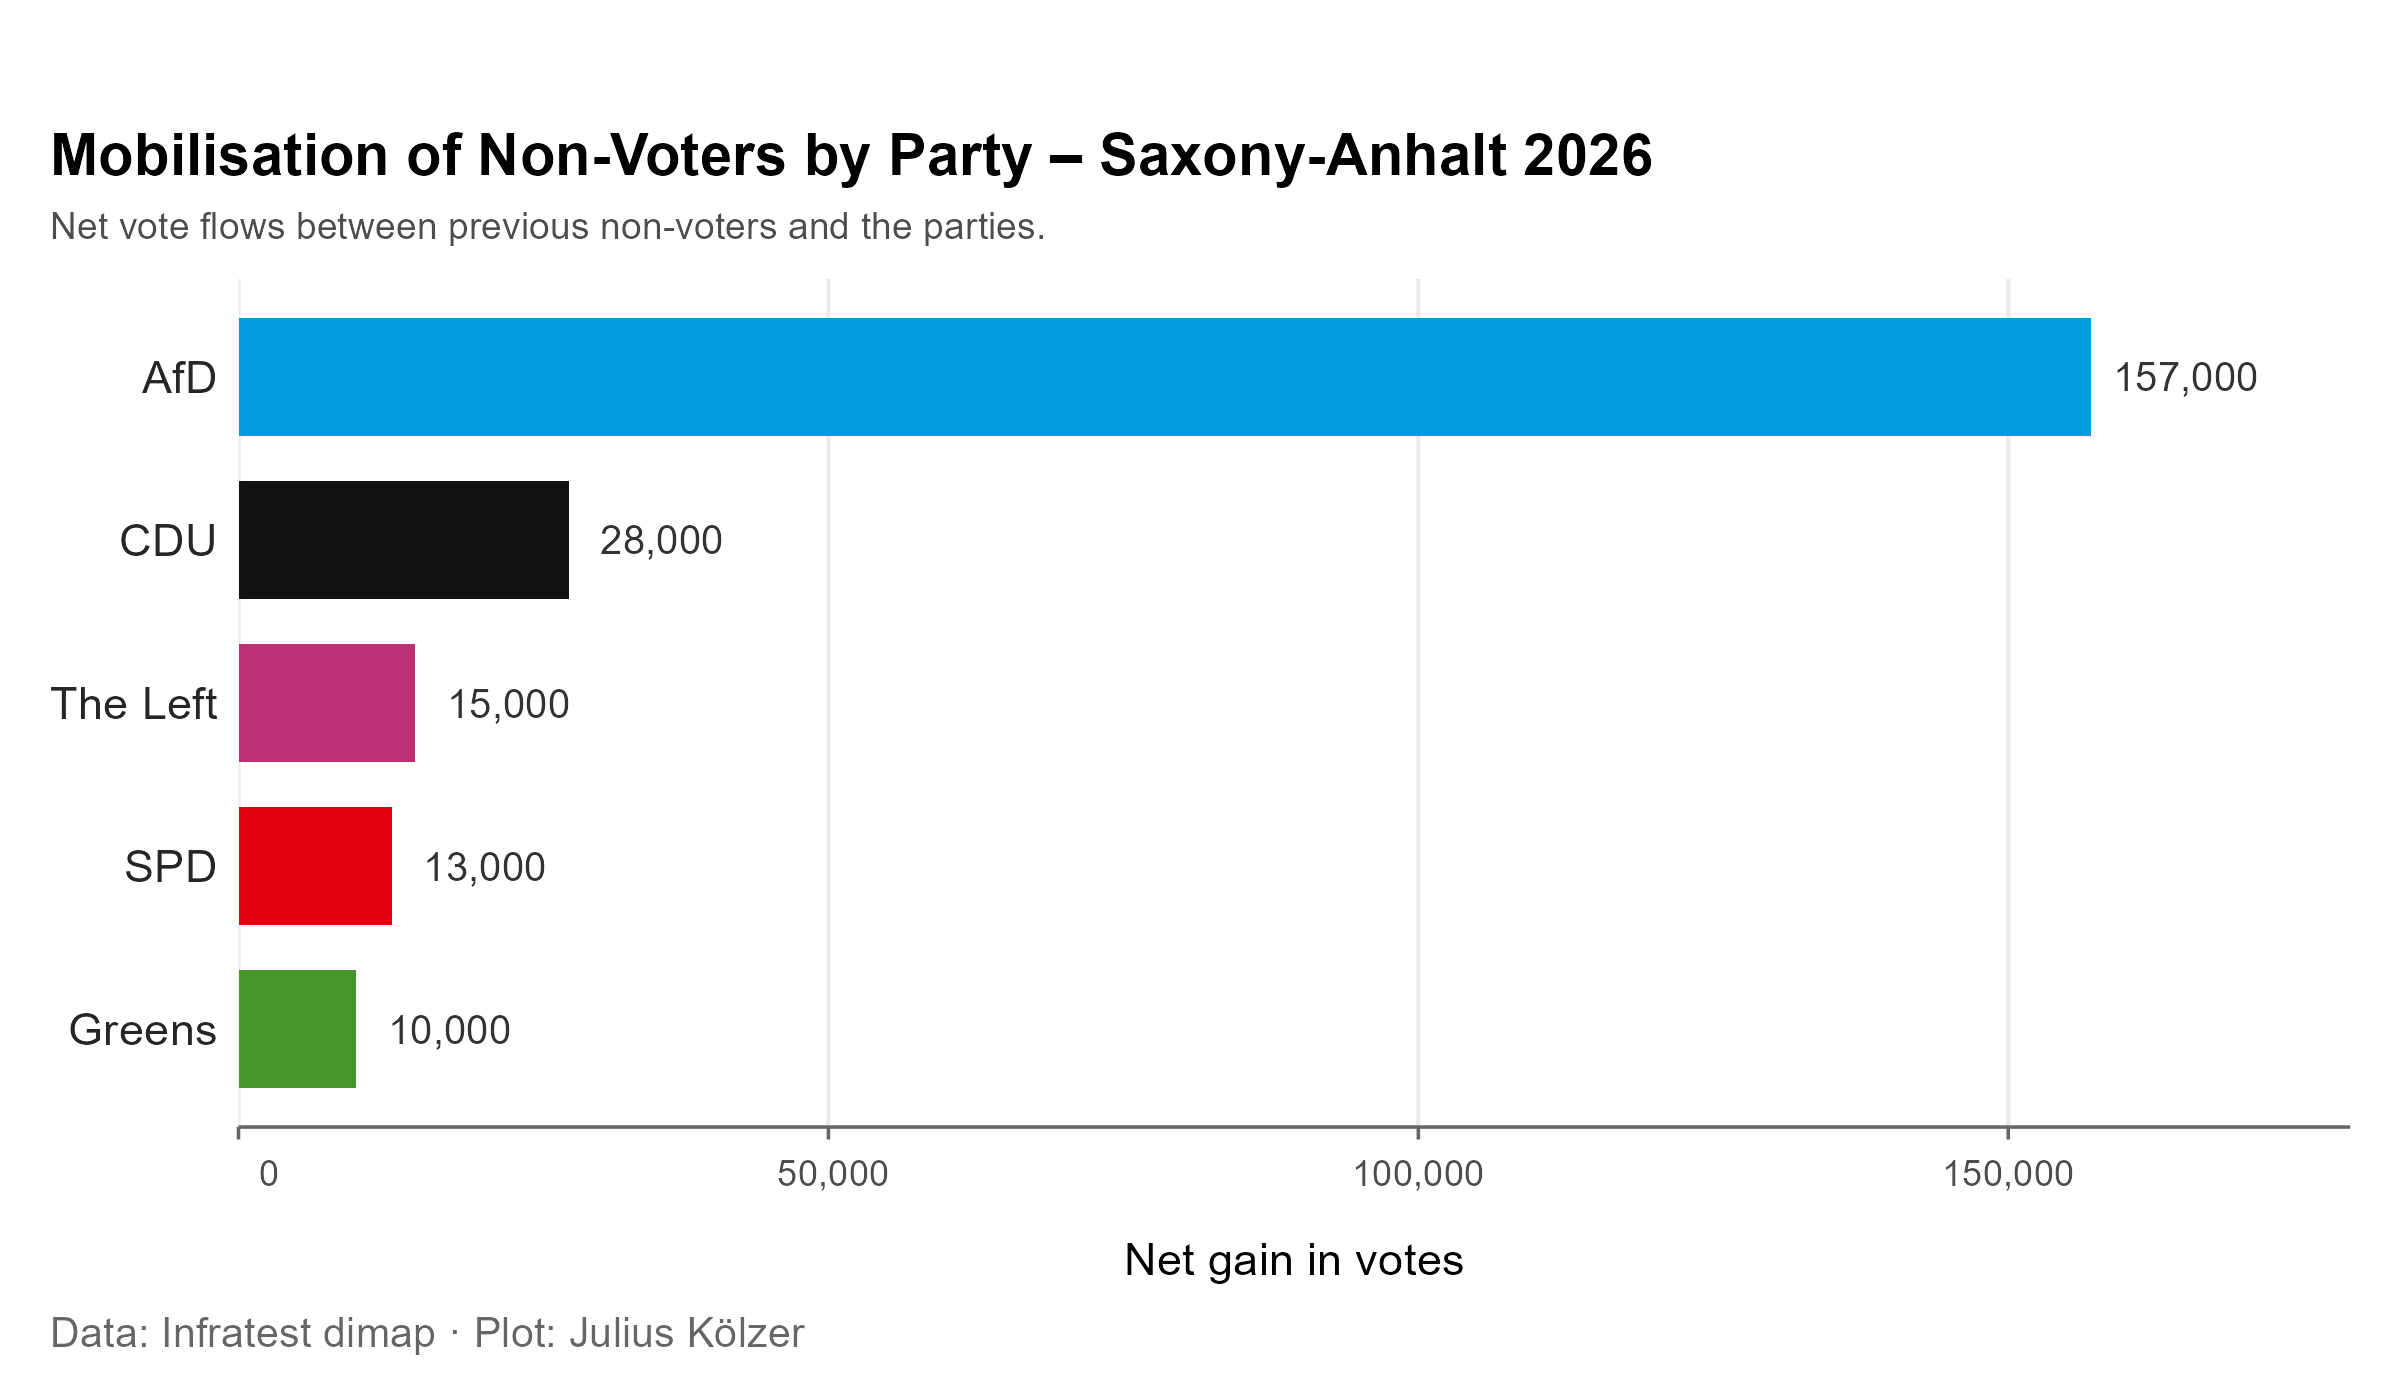
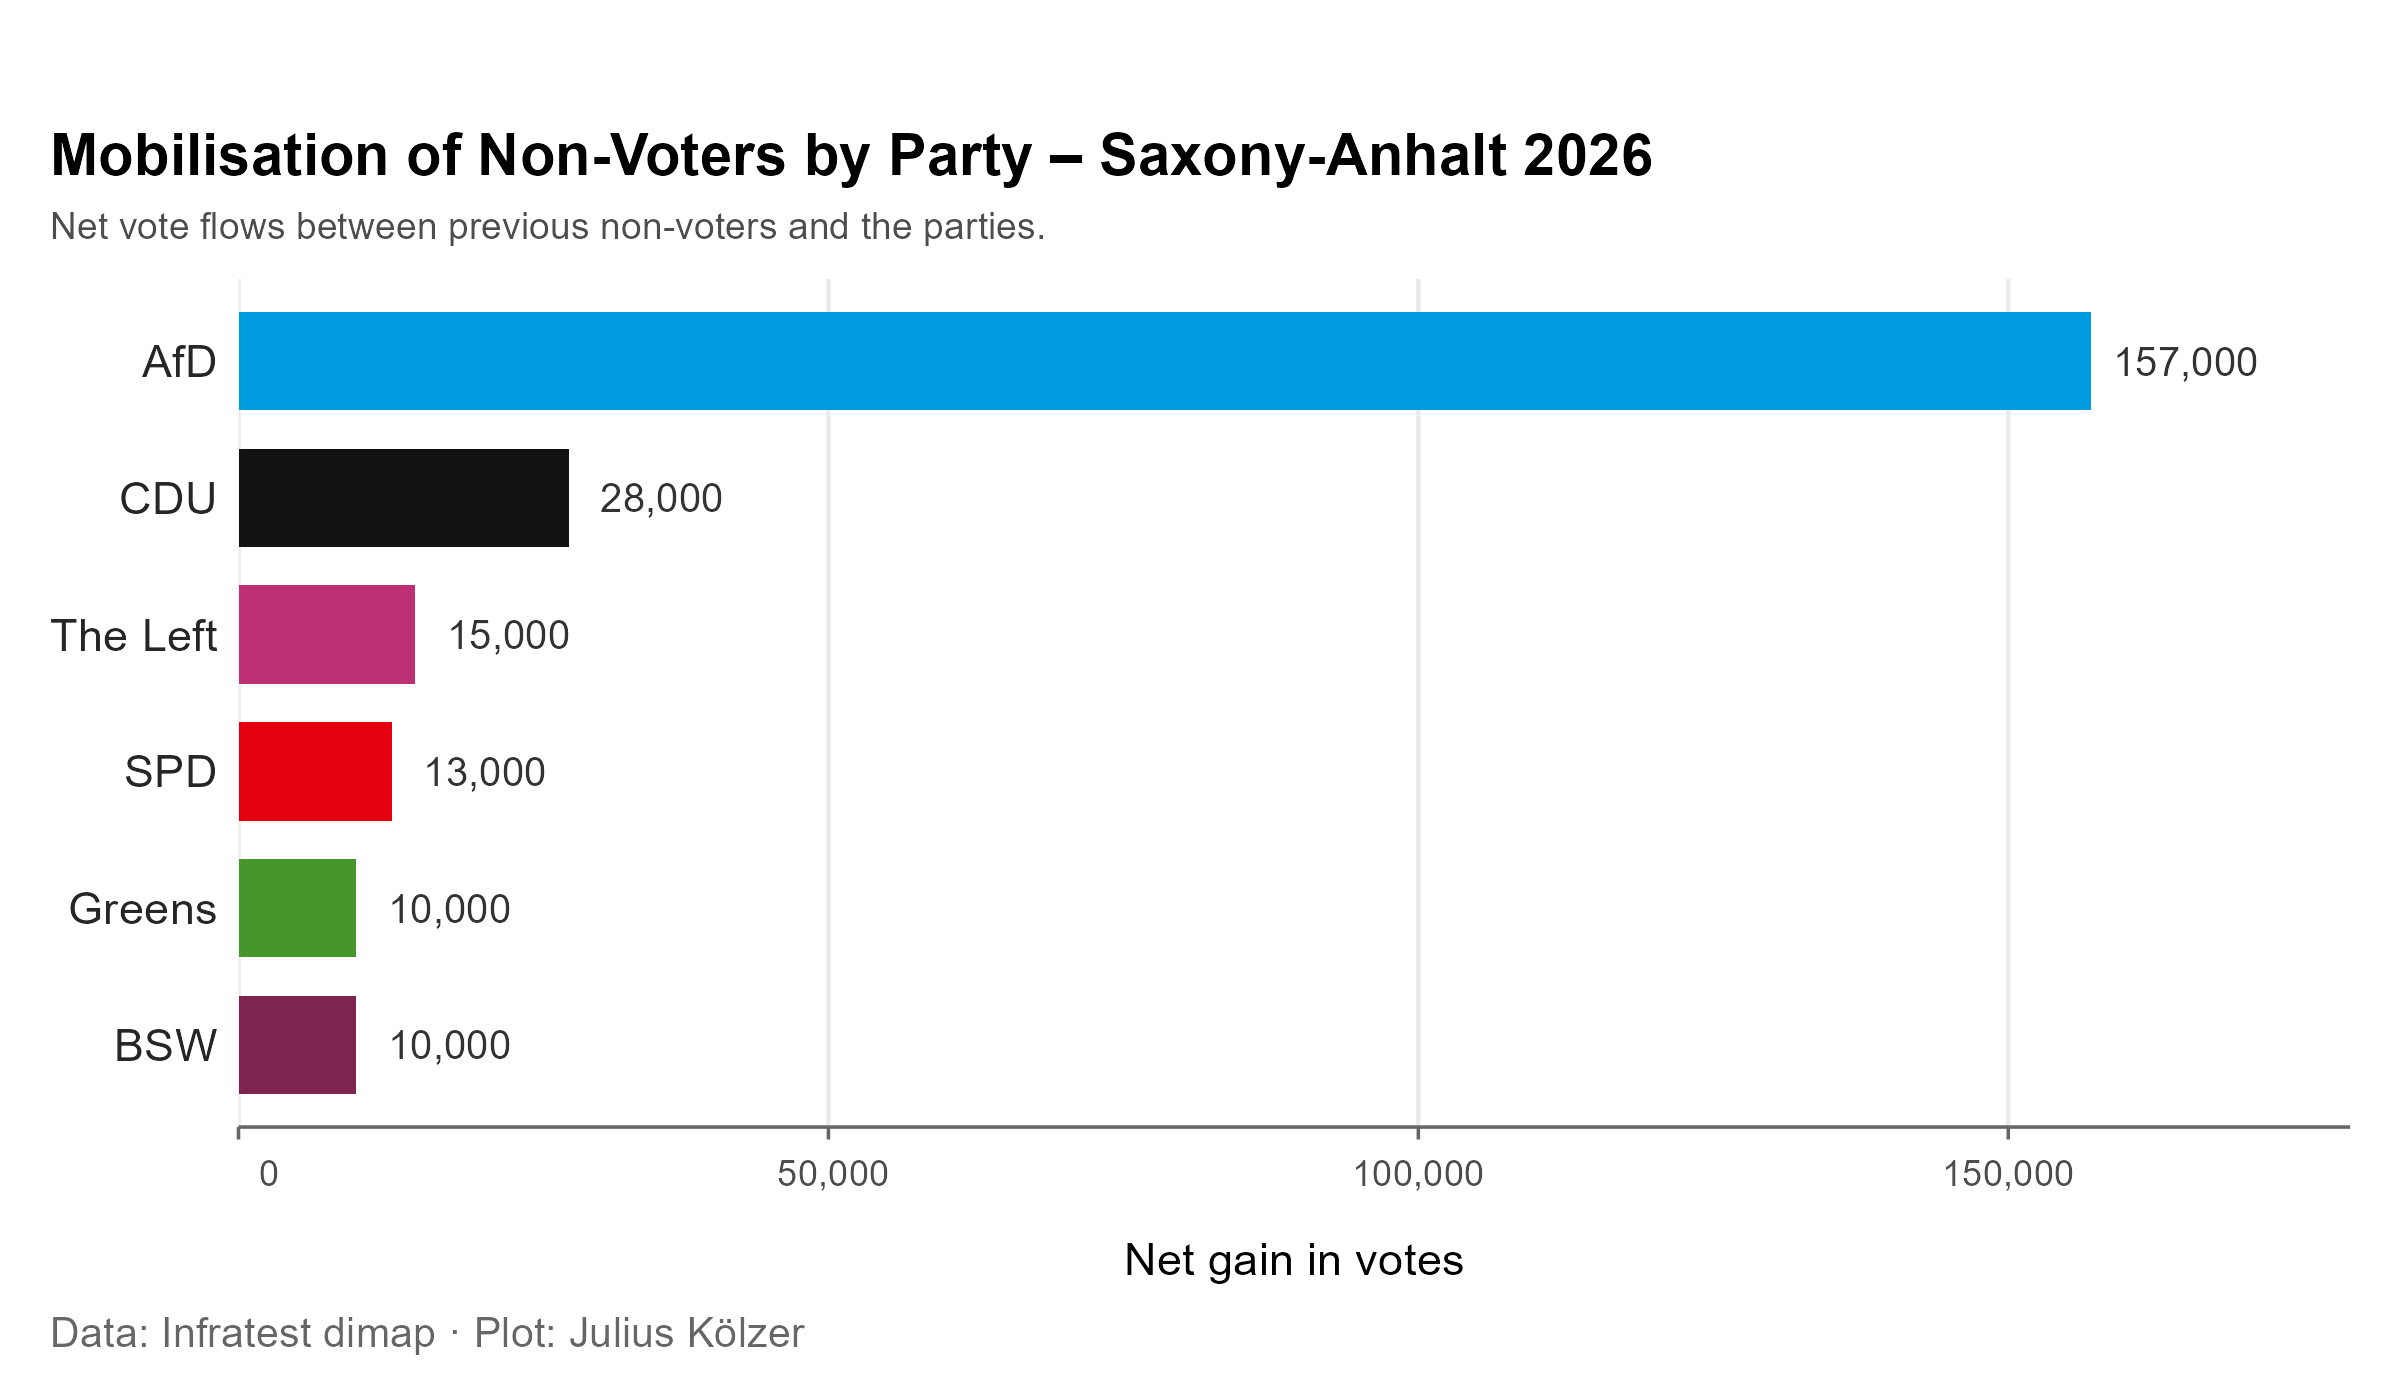
LTW 2026: BSW im Nichtwaehler-Balkendiagramm, Fussnote dazu entfernt

diff --git a/_pages/ltw2026.md b/_pages/ltw2026.md
@@ -71,7 +71,7 @@ Darüber hinaus zeigt sich, dass die Wahlbeteiligung besonders dort stärker zun
 
 ### Mobilisierung früherer Nichtwähler
 
-Dass der Anstieg an Wahlbeteiligung von pareipolitischer Mobilisierung getrieben sind zeigte sich bereits am gestrigen Wahlabend. Insbesondere die AfD schafft es eine sehr große Menge an Nichtwählern zu mobilisieren. Ihre Nicht-Wähler Mobilisierung ist mit einem Netto von 157.000 neu gewonnen Nicht-Wählern mehr als doppelt so groß als die der anderen Parteien zusammen.[^1]
+Dass der Anstieg an Wahlbeteiligung von pareipolitischer Mobilisierung getrieben sind zeigte sich bereits am gestrigen Wahlabend. Insbesondere die AfD schafft es eine sehr große Menge an Nichtwählern zu mobilisieren. Ihre Nicht-Wähler Mobilisierung ist mit einem Netto von 157.000 neu gewonnen Nicht-Wählern mehr als doppelt so groß als die der anderen Parteien zusammen.
 
 <figure class="ltw-fig-narrow">
 
@@ -317,8 +317,6 @@ document.addEventListener("DOMContentLoaded", function () {
 </script>
 ```
 </div>
-
-[^1]: Infratest Dimap hat keine Wählerwanderungszahlen zum BSW ausgewiesen.
 
 [^2]: PLATZHALTER — Alle Korrelationen und Modelle sind nach der Zahl der Wahlberechtigten gewichtet. Halle und Magdeburg stellen zusammen rund 14 Prozent der Wählerschaft und prägen die gewichteten Zusammenhänge entsprechend stark.
 
